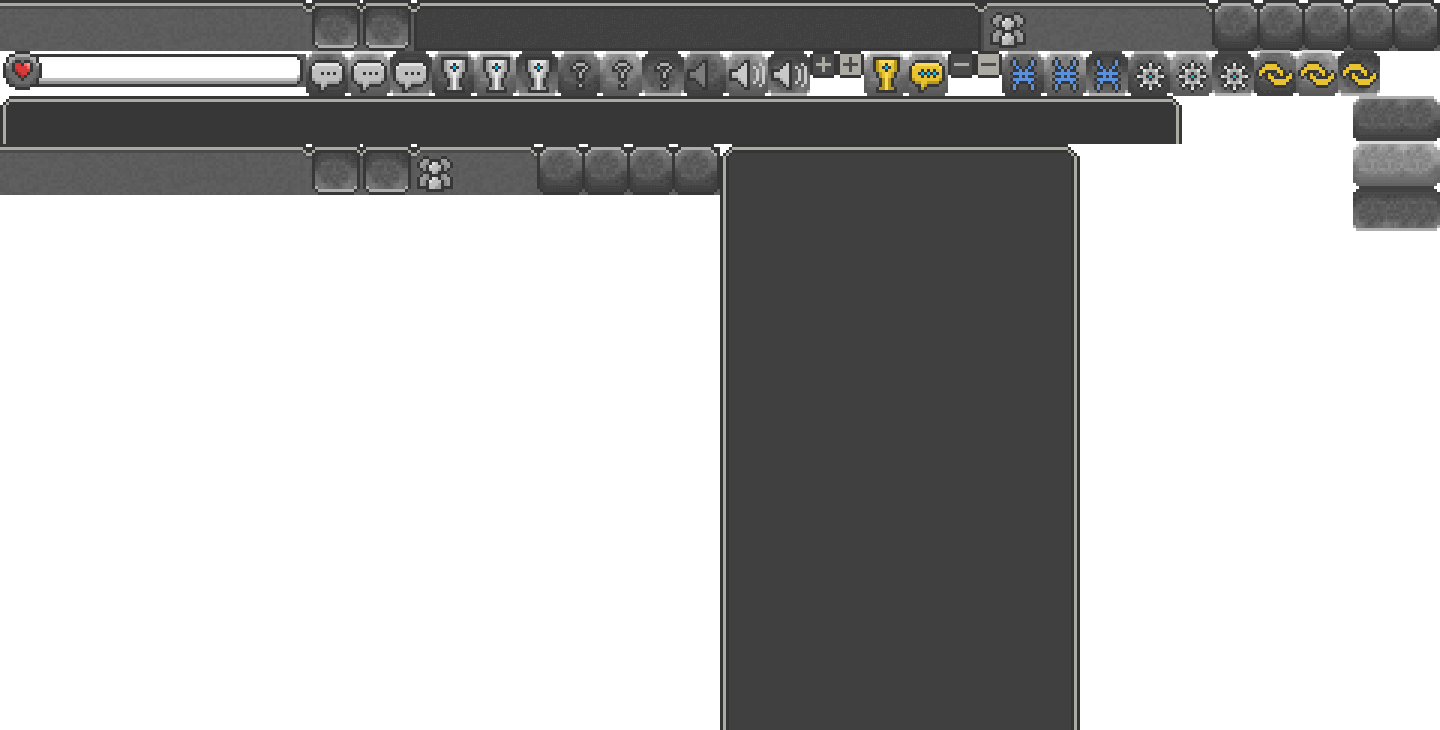
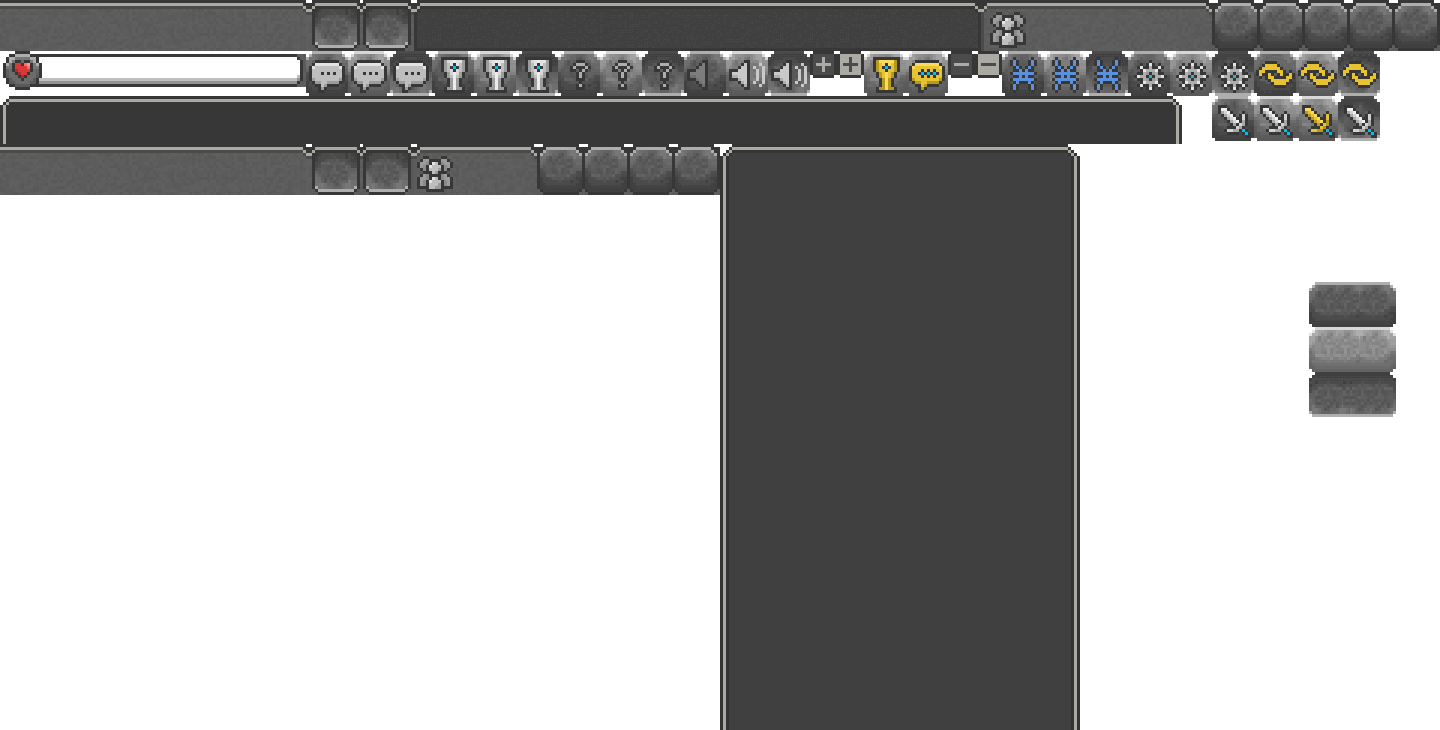
Fix item loot message for not-despawned items Fix mob do not aggro for a few seconds when attacked by multiple enemies (Minotaur) Start the Party UI panel

Changed region(s): [[0.8438, 0.1205, 1.0, 0.3315], [0.9062, 0.3616, 0.9688, 0.5726]]

diff --git a/client/css/main.css b/client/css/main.css
@@ -1098,6 +1098,10 @@ footer, header, hgroup, menu, nav, section {
         #completedbutton.ban {background-position:-1254px -51px;}
         #completedbutton.ban:hover {background-position:-1296px -51px;}
         #completedbutton.ban.active {background-position:-1338px -51px;}
+        #party-button {background-position: -1212px -96px;top: 3px;left: 1350px;}
+        #party-button:hover {background-position:-1254px -96px;}
+        #party-button.blink {background-position:-1296px -96px;}
+        #party-button.active {background-position:-1338px -96px;}
         
         #chatbox {height:48px;width:1182px;background-size:1440px;background-position:0 -96px;margin-left:-591px;bottom:18px;}
         #chatbox.active {bottom:66px;}
@@ -1321,6 +1325,10 @@ footer, header, hgroup, menu, nav, section {
         #completedbutton.ban {background-position:-836px -34px;}
         #completedbutton.ban:hover {background-position:-864px -34px;}
         #completedbutton.ban.active {background-position:-892px -34px;}
+        #party-button {background-position:-808px -64px;top:2px;left:900px;}
+        #party-button:hover {background-position:-836px -64px;}
+        #party-button.blink {background-position:-864px -64px;}
+        #party-button.active {background-position:-892px -64px;}
 
 		#chatbox {height:32px;width:788px;background-size:960px;background-position:0 -64px;margin-left:-394px;bottom:12px;}
 		#chatbox.active {bottom:44px;}
@@ -1534,6 +1542,10 @@ footer, header, hgroup, menu, nav, section {
         #settings-button {background-position:-376px -17px;top:1px;left:465px;}
         #settings-button:hover {background-position:-390px -17px;}
         #settings-button.active {background-position:-404px -17px;}
+        #party-button {background-position:-404px -32px;top:1px;left:450px;}
+        #party-button:hover {background-position:-418px -32px;}
+        #party-button.blink {background-position:-432px -32px;}
+        #party-button.active {background-position:-446px -32px;}
 
 		#chatbox {height:16px;width:394px;background-size:480px;background-position:0 -32px;margin-left:-197px;bottom:6px;}
 		#chatbox.active {bottom:22px;}
@@ -1732,6 +1744,10 @@ footer, header, hgroup, menu, nav, section {
         #completedbutton.ban:hover {background-position:-864px -34px;}
         #completedbutton.ban.active {background-position:-892px -34px;}
         #settings-button { display: none; }
+        #party-button {background-position:-808px -64px;top:2px;left:450px;}
+        #party-button:hover {background-position:-836px -64px;}
+        #party-button.blink {background-position:-864px -64px;}
+        #party-button.active {background-position:-892px -64px;}
 
 		#chatbox {height:32px;width:480px;background-size:960px;background-position:0 -64px;margin-left:-240px;bottom:2px;}
 		#chatbox.active {bottom:34px;}

diff --git a/client/js/game.ts b/client/js/game.ts
@@ -2944,7 +2944,7 @@ class Game {
         self.player.setPartyLeader(undefined);
         self.player.setPartyMembers(undefined);
 
-        self.chat_callback({ message: "Party was disbaned", type: "info" });
+        self.chat_callback({ message: "Party was disbanded", type: "info" });
         self.nbplayers_callback();
 
         self.app.removePartyHealthBar();
@@ -3083,14 +3083,6 @@ class Game {
             duration: 3000,
           });
         }
-
-        // var expInThisLevel = self.player.experience - Types.expForLevel[self.player.level - 1];
-        // var expForLevelUp = Types.expForLevel[self.player.level] - Types.expForLevel[self.player.level - 1];
-        // var expPercentThisLevel = (100 * expInThisLevel) / expForLevelUp;
-
-        // self.showNotification(
-        //   "Total xp: " + self.player.experience + ". " + expPercentThisLevel.toFixed(0) + "% of this level done.",
-        // );
 
         self.storage.incrementTotalKills();
         self.tryUnlockingAchievement("HUNTER");
@@ -3941,20 +3933,32 @@ class Game {
     if (this.map.isOutOfBounds(x, y) || !this.itemGrid) {
       return null;
     }
-    var items = this.itemGrid[y][x],
-      item = null;
+    var items = this.itemGrid[y][x];
+    var item = null;
 
     if (_.size(items) > 0) {
       // If there are potions/burgers stacked with equipment items on the same tile, always get expendable items first.
-      _.each(items, function (i) {
+      _.each(items, i => {
         if (Types.isExpendableItem(i.kind)) {
-          item = i;
+          if (this.renderingGrid[y][x][i.id]) {
+            item = i;
+          } else {
+            // Remove item from unreceived de-spawn message
+            this.removeItem(i);
+          }
         }
       });
 
       // Else, get the first item of the stack
       if (!item) {
-        item = items[_.keys(items)[0]];
+        _.keys(items).forEach(entityId => {
+          if (this.renderingGrid[y][x][entityId]) {
+            item = items[entityId];
+          } else {
+            // Remove item from unreceived de-spawn message
+            this.removeItem(items[entityId]);
+          }
+        });
       }
     }
     return item;

diff --git a/client/index_ban.html b/client/index_ban.html
@@ -425,6 +425,17 @@ ______                              ______                                 _____
                     </div>
                 </div>
             </article>
+            <article id="party" class="clickable">
+                <div class="close"></div>
+                <h1>
+                    <span class="left-ornament"></span>
+                    Party
+                    <span class="right-ornament"></span>
+                </h1>
+                <div>
+                    Coming soon
+                </div>
+            </article>
             <article id="instructions" class="clickable">
                 <div class="close"></div>
                 <h1>
@@ -579,6 +590,7 @@ ______                              ______                                 _____
                     <div id="chatbutton" class="barbutton clickable"></div>
                     <div id="achievementsbutton" class="barbutton clickable"></div>
                     <div id="completedbutton" class="barbutton clickable"></div>
+                    <div id="party-button" class="barbutton clickable"></div>
                     <div id="settings-button" class="barbutton clickable"></div>
                 </div>
             </div>

diff --git a/server/js/worldserver.ts b/server/js/worldserver.ts
@@ -843,7 +843,7 @@ class World {
   }
 
   chooseMobTarget(mob, hateRank?: number, ignorePlayerId?: number) {
-    var playerId = mob.getHatedPlayerId(hateRank);
+    var playerId = mob.getHatedPlayerId(hateRank, ignorePlayerId);
     var player;
 
     // @NOTE Fix monsters teleporting with players
@@ -853,15 +853,17 @@ class World {
       player = this.getEntityById(playerId);
     }
 
-    // @NOTE Make sure the link is always cleared?
-    this.clearMobAggroLink(mob);
-
     // If the mob is not already attacking the player, create an attack link between them.
     // @TODO REMOVE FORM ATTACKERS!!! WATCH THIS CONDITION CLOSELY... do we need that second part?
     // When using the second part, the server is not constantly sending the attack link when
     // the player exploits a bottom wall to have the enemy over and not attacking
     // The second part was commented to fix attacker though doors
-    if (player && !player.attackers[mob.id]) {
+    // @NOTE Make sure the link is cleared
+    if (!player) {
+      this.clearMobAggroLink(mob);
+    } else if (player && !player.attackers[mob.id]) {
+      this.clearMobAggroLink(mob);
+
       player.addAttacker(mob);
       mob.setTarget(player);
 

diff --git a/client/index.html b/client/index.html
@@ -438,6 +438,17 @@
                     </div>
                 </div>
             </article>
+            <article id="party" class="clickable">
+                <div class="close"></div>
+                <h1>
+                    <span class="left-ornament"></span>
+                    Party
+                    <span class="right-ornament"></span>
+                </h1>
+                <div>
+                    Coming soon
+                </div>
+            </article>
             <article id="instructions" class="clickable">
                 <div class="close"></div>
                 <h1>
@@ -592,6 +603,7 @@
                     <div id="chatbutton" class="barbutton clickable"></div>
                     <div id="achievementsbutton" class="barbutton clickable"></div>
                     <div id="completedbutton" class="barbutton clickable"></div>
+                    <div id="party-button" class="barbutton clickable"></div>
                     <div id="settings-button" class="barbutton clickable"></div>
                 </div>
             </div>

diff --git a/client/js/app.ts b/client/js/app.ts
@@ -645,8 +645,10 @@ class App {
     $("#settings").toggleClass("active", !isActive);
   }
 
-  togglePlayers() {
-    $("#party").toggleClass("active");
+  toggleParty() {
+    const isActive = $("#party").hasClass("active");
+    this.hideWindows();
+    $("#party").toggleClass("active", !isActive);
   }
 
   resetAchievementPage() {
@@ -745,7 +747,8 @@ class App {
       $("#settings-button").removeClass("active");
     }
     if ($("#party").hasClass("active")) {
-      this.togglePlayers();
+      $("#party").removeClass("active");
+      $("#party-button").removeClass("active");
     }
   }
 

diff --git a/server/js/mob.ts b/server/js/mob.ts
@@ -122,9 +122,14 @@ class Mob extends Character {
     }
   }
 
-  getHatedPlayerId(hateRank?: number) {
+  getHatedPlayerId(hateRank?: number, ignorePlayerId?: number) {
     var i;
     var playerId;
+
+    if (ignorePlayerId) {
+      this.hateList = this.hateList.filter(hatedPlayer => hatedPlayer.id !== ignorePlayerId);
+    }
+
     var sorted = _.sortBy(this.hateList, function (obj) {
       return obj.hate;
     });

diff --git a/server/js/player.ts b/server/js/player.ts
@@ -293,7 +293,7 @@ class Player extends Character {
 
         // Sanitized messages may become empty. No need to broadcast empty chat messages.
         if (msg && msg !== "") {
-          msg = msg.substr(0, 255); // Enforce maxlength of chat input
+          msg = msg.substr(0, 255); // Enforce maxLength of chat input
 
           const admins = ["running-coder", "oldschooler", "Baikie", "Phet", "CallMeCas"];
 

diff --git a/client/js/index.ts b/client/js/index.ts
@@ -722,6 +722,10 @@ var initGame = function () {
     app.toggleSettings();
   });
 
+  $("#party-button").on("click", () => {
+    app.toggleParty();
+  });
+
   $("#mute-music-checkbox").on("change", function () {
     app.toggleMuteMusic();
   });
